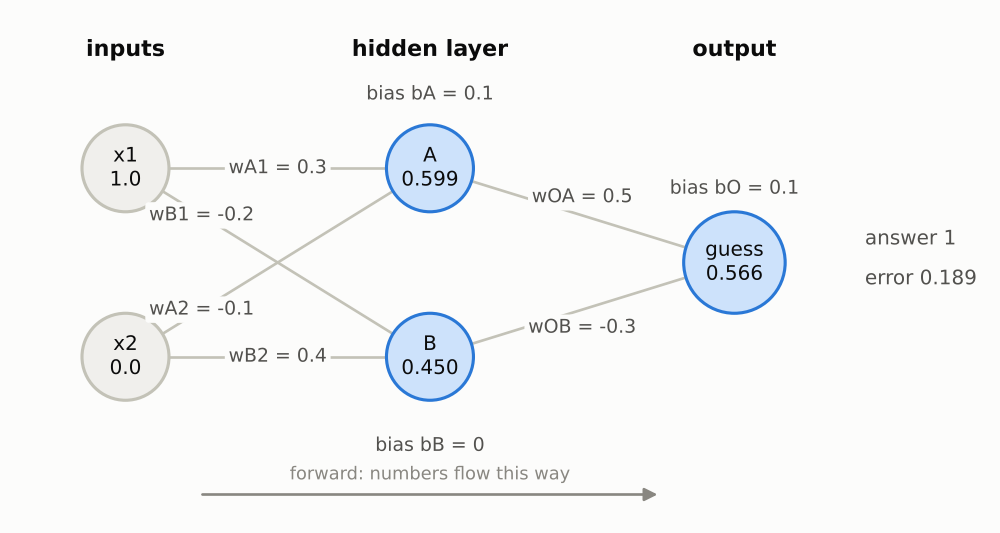
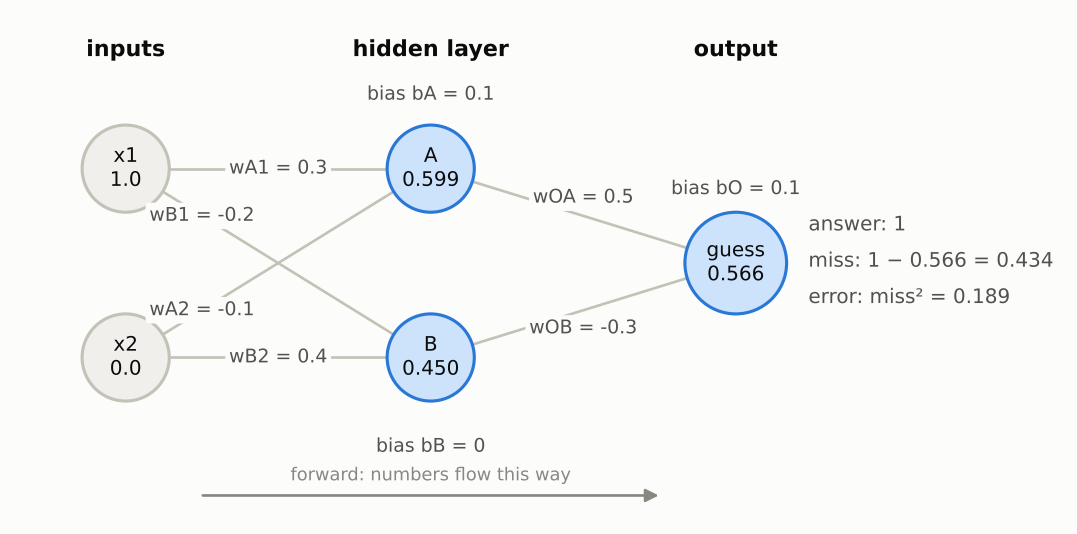
Step 3a: show the error as the miss squared
The forward diagram and section 3 now spell out error = miss², so the
0.189 no longer looks like it should equal the 0.434 difference.

Claude-Session: https://claude.ai/code/session_0198KsRUtBDqNLAP2w7pepJc

diff --git a/scripts/make_stage2_charts.py b/scripts/make_stage2_charts.py
@@ -440,7 +440,7 @@ def diagram_network_forward() -> None:
     guess = fwd.guesses[0, 0]
     d = nw.named_dials(net)
 
-    fig, ax = blank_canvas(7.6, 4.2, (-1.4, 11.6), (-3.4, 3.3))
+    fig, ax = blank_canvas(8.2, 4.2, (-1.4, 12.6), (-3.4, 3.3))
     _network_skeleton(ax)
     node(ax, *_POS["x1"], radius=0.6, fill="#f0efec", edge=AXIS, text="x1\n1.0", size=9)
     node(ax, *_POS["x2"], radius=0.6, fill="#f0efec", edge=AXIS, text="x2\n0.0", size=9)
@@ -461,8 +461,9 @@ def diagram_network_forward() -> None:
     ax.text(0, 2.85, "inputs", ha="center", fontsize=10, weight="bold")
     ax.text(4.2, 2.85, "hidden layer", ha="center", fontsize=10, weight="bold")
     ax.text(8.4, 2.85, "output", ha="center", fontsize=10, weight="bold")
-    ax.text(10.2, 0.25, "answer 1", fontsize=9, color=INK_2)
-    ax.text(10.2, -0.3, f"error {(guess - 1) ** 2:.3f}", fontsize=9, color=INK_2)
+    ax.text(9.4, 0.45, "answer: 1", fontsize=9, color=INK_2)
+    ax.text(9.4, -0.05, f"miss: 1 − {guess:.3f} = {1 - guess:.3f}", fontsize=9, color=INK_2)
+    ax.text(9.4, -0.55, f"error: miss² = {(guess - 1) ** 2:.3f}", fontsize=9, color=INK_2)
     arrow(ax, (1.0, -3.2), (7.4, -3.2), color=MUTED)
     ax.text(4.2, -3.05, "forward: numbers flow this way", ha="center", va="bottom", fontsize=8,
             color=MUTED)  # fmt: skip

diff --git a/docs/stage-2/03a-hidden-layer-by-hand.md b/docs/stage-2/03a-hidden-layer-by-hand.md
@@ -65,10 +65,14 @@ total = wOA × A + wOB × B + bO
 guess = squash(0.264) = 0.566
 ```
 
-**Error:**
+**Error:** the miss, squared, just like page 1:
 ```
-error = (0.566 − 1)² = 0.189
+error = (guess − answer)²
+      = (0.566 − 1)²
+      = 0.434²
+      = 0.189
 ```
+(The program uses the unrounded guess, 0.5657, which is why this comes out as 0.189 and not the 0.188 you'd get from 0.434² on a calculator.)
 
 The guess is too low. Now: which of the 9 dials should turn, and which way?
 
